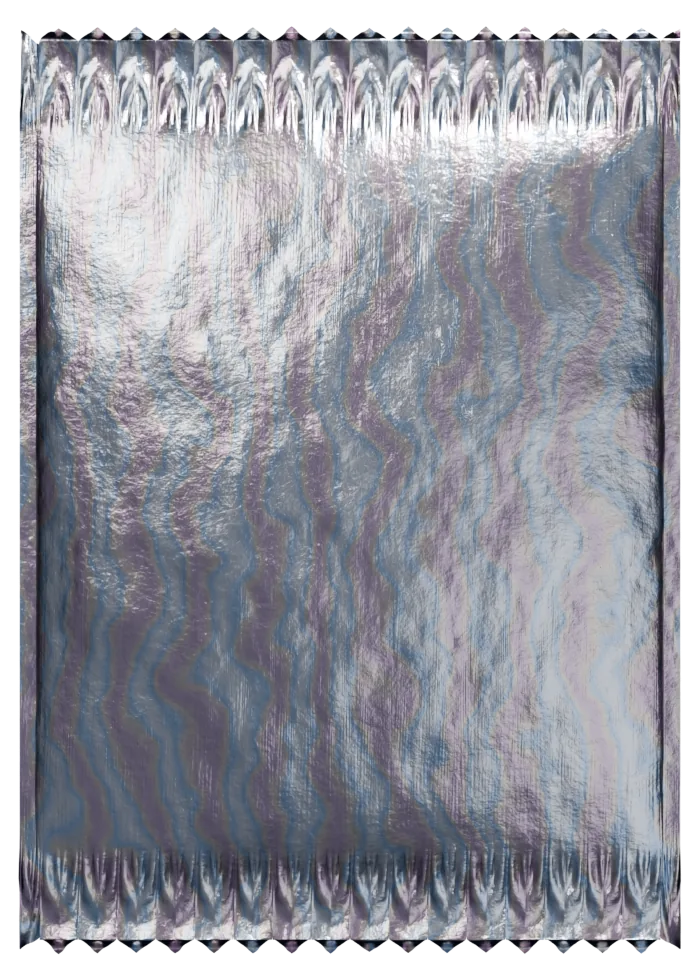
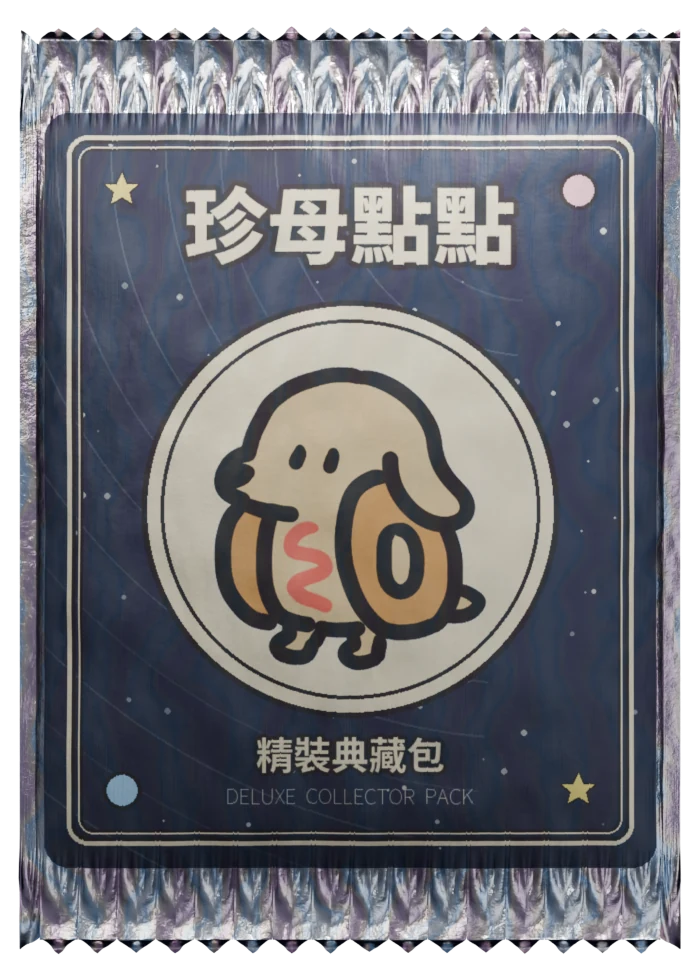
卡包改成印刷貼圖＋鋁箔底材（使用者：鋁箔只當底，要像寶可夢補充包）
make_print_layer.py 產 700×980 印刷層（對齊 deluxe-back 的深藍底／奶油描邊／珍珍主視覺，
標題用 Noto Sans TC 自己疊不交給 imagegen），Blender 以 Generated 座標貼在鋁箔上；
印刷覆蓋率 0.92 讓皺摺高光穿過，封口與外緣維持鋁箔。

diff --git a/_art/holo-test/fx/make_print_layer.py b/_art/holo-test/fx/make_print_layer.py
@@ -1,0 +1,107 @@
+# -*- coding: utf-8 -*-
+"""卡包印刷層 700x980 RGBA：navy 底＋奶油線框＋珍珍主視覺＋標題；封口與外緣留透明讓鋁箔透出。
+風格對齊 cardback/deluxe-back.png（深藍底、奶油描邊、黑輪廓）。"""
+from PIL import Image, ImageDraw, ImageFont, ImageFilter
+import math, random
+
+W, H = 700, 980
+SEAL = 90          # 上下封口高度（對應 Blender 的 0.9/9.8）
+MARGIN = 26        # 左右留鋁箔
+NAVY = (28, 42, 76, 255)
+NAVY2 = (18, 28, 56, 255)
+CREAM = (246, 236, 201, 255)
+INK = (20, 18, 24, 255)
+random.seed(3)
+
+img = Image.new('RGBA', (W, H), (0, 0, 0, 0))
+d = ImageDraw.Draw(img)
+
+# 印刷區域（圓角矩形），其餘透明＝鋁箔
+box = (MARGIN, SEAL, W - MARGIN, H - SEAL)
+d.rounded_rectangle(box, radius=26, fill=NAVY)
+# 上下漸暗
+grad = Image.new('RGBA', (W, H), (0, 0, 0, 0))
+gd = ImageDraw.Draw(grad)
+for y in range(box[1], box[3]):
+    t = (y - box[1]) / (box[3] - box[1])
+    a = int(70 * (abs(t - 0.5) * 2) ** 2)
+    gd.line([(box[0], y), (box[2], y)], fill=(8, 12, 30, a))
+mask = Image.new('L', (W, H), 0)
+ImageDraw.Draw(mask).rounded_rectangle(box, radius=26, fill=255)
+img = Image.composite(Image.alpha_composite(img, grad), img, mask)
+d = ImageDraw.Draw(img)
+
+# 星軌弧線＋小星：畫在獨立圖層再用印刷區遮罩裁掉（不能溢到鋁箔區）
+deco = Image.new('RGBA', (W, H), (0, 0, 0, 0)); dd = ImageDraw.Draw(deco)
+cx, cy = W * 0.78, SEAL + 40
+for r in range(160, 900, 58):
+    a = 34 + random.randint(0, 26)
+    dd.arc((cx - r, cy - r, cx + r, cy + r), start=95, end=200, fill=(246, 236, 201, a), width=2)
+for _ in range(80):
+    x = random.randint(box[0] + 20, box[2] - 20); y = random.randint(box[1] + 20, box[3] - 20)
+    s_ = random.choice([1, 1, 2, 2, 3])
+    dd.ellipse((x - s_, y - s_, x + s_, y + s_), fill=(255, 250, 230, random.randint(110, 220)))
+deco.putalpha(Image.composite(deco.getchannel('A'), Image.new('L', (W, H), 0), mask))
+img = Image.alpha_composite(img, deco)
+d = ImageDraw.Draw(img)
+
+# 奶油雙線框（黑描邊）
+inner = (box[0] + 24, box[1] + 24, box[2] - 24, box[3] - 24)
+d.rounded_rectangle(inner, radius=22, outline=INK, width=9)
+d.rounded_rectangle(inner, radius=22, outline=CREAM, width=5)
+inner2 = (inner[0] + 12, inner[1] + 12, inner[2] - 12, inner[3] - 12)
+d.rounded_rectangle(inner2, radius=16, outline=INK, width=5)
+d.rounded_rectangle(inner2, radius=16, outline=CREAM, width=2)
+
+# 中央圓形視窗＋主視覺
+R = 215
+ccx, ccy = W // 2, H // 2 + 20
+d.ellipse((ccx - R - 6, ccy - R - 6, ccx + R + 6, ccy + R + 6), fill=INK)
+d.ellipse((ccx - R, ccy - R, ccx + R, ccy + R), fill=CREAM)
+d.ellipse((ccx - R + 14, ccy - R + 14, ccx + R - 14, ccy + R - 14), outline=INK, width=4)
+sub = Image.open('D:/claude/clawd-pet-holo/_art/holo-test/cardback/subject-cutout.png').convert('RGBA')
+sub = sub.crop(sub.getbbox())
+sh = int(R * 1.5); sw = int(sub.width * sh / sub.height)
+sub = sub.resize((sw, sh), Image.LANCZOS)
+img.alpha_composite(sub, (ccx - sw // 2, ccy - sh // 2 + 10))
+d = ImageDraw.Draw(img)
+
+# 標題
+def outlined(text, xy, font, fill, outline, w):
+    x, y = xy
+    for dx in range(-w, w + 1):
+        for dy in range(-w, w + 1):
+            if dx * dx + dy * dy <= w * w:
+                d.text((x + dx, y + dy), text, font=font, fill=outline, anchor='mm')
+    d.text((x, y), text, font=font, fill=fill, anchor='mm')
+
+FONT = 'C:/Windows/Fonts/NotoSansTC-VF.ttf'
+f_big = ImageFont.truetype(FONT, 88); f_big.set_variation_by_name('Black') if 'Black' in [n.decode() if isinstance(n, bytes) else n for n in f_big.get_variation_names()] else None
+f_mid = ImageFont.truetype(FONT, 40)
+try: f_mid.set_variation_by_name('Bold')
+except Exception: pass
+f_small = ImageFont.truetype('C:/Windows/Fonts/NotoSansTC-VF.ttf', 22)
+
+outlined('珍母點點', (W // 2, SEAL + 118), f_big, CREAM, INK, 6)
+outlined('精裝典藏包', (W // 2, H - SEAL - 120), f_mid, CREAM, INK, 4)
+d.text((W // 2, H - SEAL - 76), 'DELUXE  COLLECTOR  PACK', font=f_small, fill=(246, 236, 201, 200), anchor='mm')
+
+# 四角小圖示：星／愛心（簡單向量）
+def star(c, r, fill):
+    pts = []
+    for i in range(10):
+        ang = -math.pi / 2 + i * math.pi / 5
+        rr = r if i % 2 == 0 else r * 0.45
+        pts.append((c[0] + rr * math.cos(ang), c[1] + rr * math.sin(ang)))
+    d.polygon(pts, fill=INK);
+    pts2 = [((p[0] - c[0]) * 0.78 + c[0], (p[1] - c[1]) * 0.78 + c[1]) for p in pts]
+    d.polygon(pts2, fill=fill)
+star((inner2[0] + 46, inner2[1] + 46), 22, (251, 233, 128, 255))
+star((inner2[2] - 46, inner2[3] - 46), 22, (251, 233, 128, 255))
+d.ellipse((inner2[2] - 66, inner2[1] + 26, inner2[2] - 26, inner2[1] + 66), fill=INK)
+d.ellipse((inner2[2] - 62, inner2[1] + 30, inner2[2] - 30, inner2[1] + 62), fill=(252, 200, 212, 255))
+d.ellipse((inner2[0] + 26, inner2[3] - 66, inner2[0] + 66, inner2[3] - 26), fill=INK)
+d.ellipse((inner2[0] + 30, inner2[3] - 62, inner2[0] + 62, inner2[3] - 30), fill=(176, 220, 250, 255))
+
+img.save('D:/claude/holo-pack/out/pack-print.png')
+print('ok', img.size)

diff --git a/_art/holo-test/fx/build_foil_pack.py b/_art/holo-test/fx/build_foil_pack.py
@@ -35,7 +35,7 @@ sc.view_settings.look = 'AgX - Medium High Contrast'
 
 
 # ---------- 材質：銀白鋁箔 ----------
-def foil_material(name, rainbow=0.22, rough=0.28, crinkle=0.9):
+def foil_material(name, rainbow=0.22, rough=0.28, crinkle=0.9, print_path=None):
     m = bpy.data.materials.new(name)
     m.use_nodes = True
     t = m.node_tree
@@ -82,7 +82,31 @@ def foil_material(name, rainbow=0.22, rough=0.28, crinkle=0.9):
     mix.blend_type = 'OVERLAY'; mix.inputs[0].default_value = rainbow
     mix.inputs[1].default_value = (0.62, 0.64, 0.70, 1)
     t.links.new(ramp.outputs[0], mix.inputs[2])
-    t.links.new(mix.outputs[0], bsdf.inputs['Base Color'])
+    if print_path:
+        img = bpy.data.images.load(print_path)
+        tex = t.nodes.new('ShaderNodeTexImage'); tex.image = img; tex.location = (-300, 700)
+        tex.extension = 'CLIP'
+        t.links.new(tc.outputs['Generated'], tex.inputs['Vector'])
+        # 印刷覆蓋率：alpha × 0.92，讓皺摺高光還能穿過印刷
+        cov = t.nodes.new('ShaderNodeMath'); cov.operation = 'MULTIPLY'; cov.inputs[1].default_value = 0.92
+        t.links.new(tex.outputs['Alpha'], cov.inputs[0])
+        col = t.nodes.new('ShaderNodeMixRGB'); col.blend_type = 'MIX'; col.location = (350, 500)
+        t.links.new(cov.outputs[0], col.inputs[0]); t.links.new(mix.outputs[0], col.inputs[1]); t.links.new(tex.outputs['Color'], col.inputs[2])
+        t.links.new(col.outputs[0], bsdf.inputs['Base Color'])
+        met = t.nodes.new('ShaderNodeMath'); met.operation = 'MULTIPLY_ADD'; met.location = (350, 350)
+        # metallic = 1 - 0.75*cov
+        met.inputs[1].default_value = -0.75; met.inputs[2].default_value = 1.0
+        t.links.new(cov.outputs[0], met.inputs[0]); t.links.new(met.outputs[0], bsdf.inputs['Metallic'])
+        rg = t.nodes.new('ShaderNodeMath'); rg.operation = 'MULTIPLY_ADD'; rg.location = (350, 250)
+        # roughness = rough + 0.3*cov
+        rg.inputs[1].default_value = 0.3; rg.inputs[2].default_value = rough
+        t.links.new(cov.outputs[0], rg.inputs[0]); t.links.new(rg.outputs[0], bsdf.inputs['Roughness'])
+        bs = t.nodes.new('ShaderNodeMath'); bs.operation = 'MULTIPLY_ADD'; bs.location = (100, -300)
+        # bump strength = base - 0.45*cov
+        bs.inputs[1].default_value = -0.45 * crinkle; bs.inputs[2].default_value = 0.7 * crinkle
+        t.links.new(cov.outputs[0], bs.inputs[0]); t.links.new(bs.outputs[0], bump.inputs['Strength'])
+    else:
+        t.links.new(mix.outputs[0], bsdf.inputs['Base Color'])
     return m
 
 
@@ -208,7 +232,7 @@ def clear_objects():
 
 # ---------- 1. 卡包 ----------
 W, H, SEAL = 7.0, 9.8, 0.9
-mat = foil_material('foil', rainbow=0.4, rough=0.22)
+mat = foil_material('foil', rainbow=0.4, rough=0.22, print_path=f'{OUT}/pack-print.png')
 pack = mesh_from_outline('pack', outline_pack(W, H, seal=SEAL), mat)
 add_bulge(pack, 0.55, W, H, SEAL)
 seal_ribs(pack, W, H, SEAL)

diff --git a/_art/holo-test/fx/README.md b/_art/holo-test/fx/README.md
@@ -3,7 +3,7 @@
 | 檔 | 尺寸 | 來源 | 大小 |
 |---|---|---|---|
 | `summon-night.webp` | 1536×1024 RGB | Codex imagegen（無文字／UI），Pillow q82 | 63KB |
-| `foil-pack.webp` | 700×980 RGBA | Blender 4.5.13 Cycles 靜幀，`build_foil_pack.py`（材質數值取自 holo-card-studio，MIT） | 128KB |
+| `foil-pack.webp` | 700×980 RGBA | 鋁箔底材＋印刷貼圖（寶可夢補充包做法）：`make_print_layer.py` 產 `pack-print.png`（navy 底＋珍珍主視覺＋標題，封口與外緣留透明），再由 `build_foil_pack.py` 在 Blender 4.5.13 Cycles 鋪在鋁箔上（印刷區 metallic 0.25、未印刷區鋁箔） | 103KB |
 | `foil-tear.webp` | 1024×256 RGBA | 同上，同一支腳本 | 32KB |
 
 重渲：`blender -b -P build_foil_pack.py -- <out_dir>`（可攜版 Blender 在 `D:\claude\holo-pack\tools\`）。
